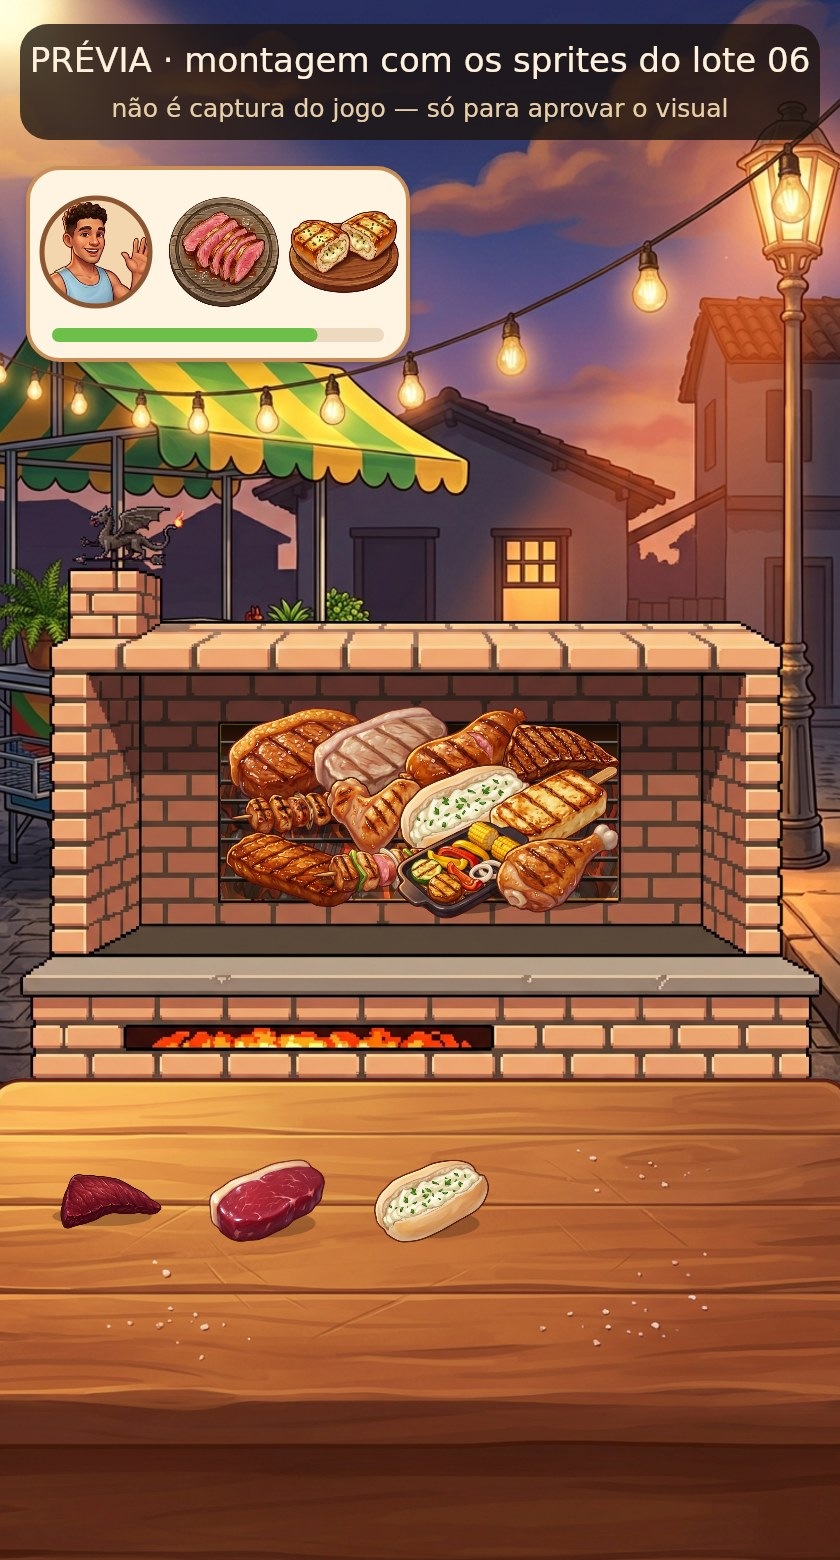
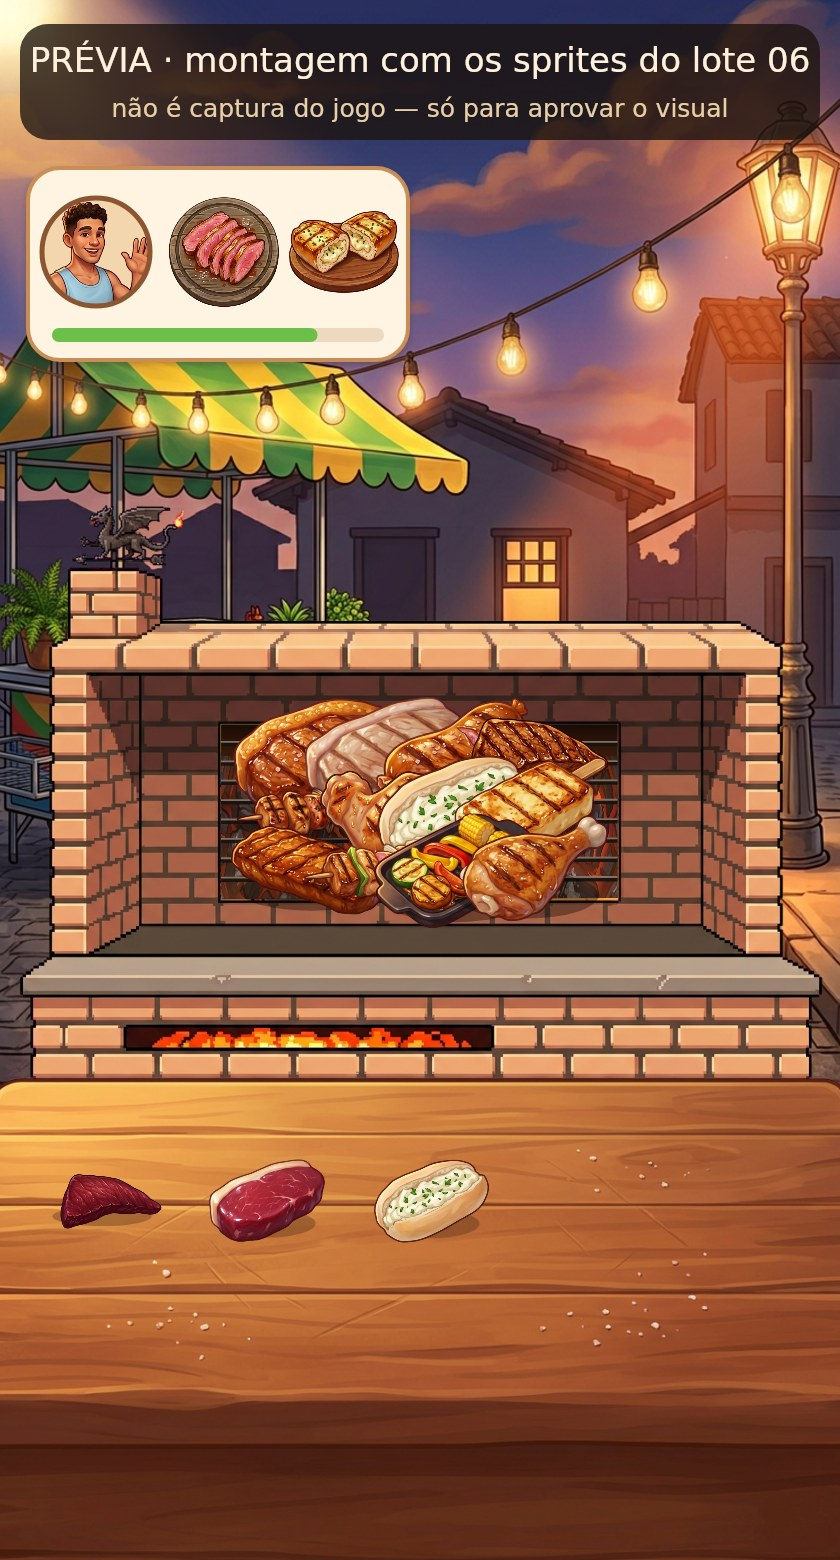
art: folha do lote 06 legível, prévia com os u/v do motor, e o topo da escada medido
- `review-sheet.mjs`: a linha `compare` compartilhava a linha das artes do lote, com 10 colunas de
  ~110 px; nome de sprite não quebra (sem espaço) e os rótulos imprimiam um sobre o outro — na linha
  que serve justamente para responder "a escada cresce?". Comparação vira linha própria (4 por vez,
  rótulo curto `lata_valente · evo1`, boca medida embaixo: `−8,6° · 21% · lote 01`) e os itens do lote
  ficam com a largura toda.
- `art/lote-06.json`: `onGrill` da prévia passa a usar os `u`/`v` do `toGrillScreen`
  (`0.14 + 0.72·(i+0.5)/S`, `(j+0.5)/Z`), então a montagem é o que o jogo desenha, não uma
  semelhança. Medido com isso: na fornalha e3 (3×4, 12 vagas, leito no teto de 408 px) a célula é de
  73 px para comida de 86 px — os pratos encostam. Está **dentro** do padrão (a promessa é "nunca
  pior que o procedural", que dá 56 px em S=4), e as três saídas (subir `maxBedWidthOnScreen`,
  ajustar `foodDisplayWidth` ao teto, ou aceitar o encosto) são decisão do dono: docs/22 §6.9.1.
- Notas de veredito por item reescritas com a medição final (4 `ok`, 2 `refazer` por boca rasa).

Gates 14/15 aqui, `check-csharp` roda na CI. Runtime inalterado (125 sprites, atlas do lote 04).

Changed region(s): [[0.2476, 0.4308, 0.7429, 0.6154]]

diff --git a/docs/22-ARTE_2D_PLANO.md b/docs/22-ARTE_2D_PLANO.md
@@ -595,3 +595,24 @@ Rodapé de infraestrutura, pago pelo próprio lote: `build-runtime.mjs --dry-run
 dele, `build-runtime` **apagava e re-escrevia** o atlas de runtime antes de qualquer coisa — rodá-lo
 "para ver o aviso" de um lote pendente re-escrevia o jogo com o que estivesse `approved` (e 6 grelhas
 estavam `pending`). Hoje o dry-run mede, avisa e não toca em `prototype/assets/art`.
+
+#### 6.9.1 A montagem com os u/v do motor, e o que ela mostrou no topo da escada
+
+A prévia do lote 06 não espalha os pratos "bonitinho": ela usa os mesmos `u = 0.14 + 0.72·(i+0.5)/S`
+e `v = (j+0.5)/Z` que `toGrillScreen` usa. Com isso, a fornalha e3 (3×4 = 12 vagas no teto de
+`maxBedWidthOnScreen` = 408 px) dá célula de **73 px** para comida desenhada a **86 px** — os pratos
+encostam nos vizinhos, e encostam *no jogo também*, não é defeito da montagem.
+
+Isso é o padrão fazendo exatamente o que foi especificado: a promessa é "nunca pior que o leito
+procedural" (célula 73 px ≥ 56 px que o procedural dá para S=4), não "sempre 86 px de sobra". A 12
+vagas, no teto de largura, faltam 13 px. Três saídas, e todas são escolha do dono, não do pipeline:
+
+1. subir `maxBedWidthOnScreen` (408 → ~450 dá 80 px de célula; 420 é a largura do quadro, então é
+   literalmente encostar nas bordas — o `clamp` existe para a grelha não comer a tela do dedo);
+2. deixar `foodDisplayWidth` cair para a largura da célula quando a grelha está no teto (comida
+   3 % menor no último degrau = invisível, e o toque continua 48 dp porque é o *slot*, não o prato);
+3. aceitar o encosto no topo da escada — "a grelha está cheia" é uma informação, e hoje o jogador já
+   vê isso pelo brilho de borda.
+
+A folha (`art/review/lote-06*.jpg`) mostra a opção 3 como estado atual; a linha de comparação no topo
+da folha existe para ele ver as quatro grelhas em serviço na mesma escala antes de decidir.
